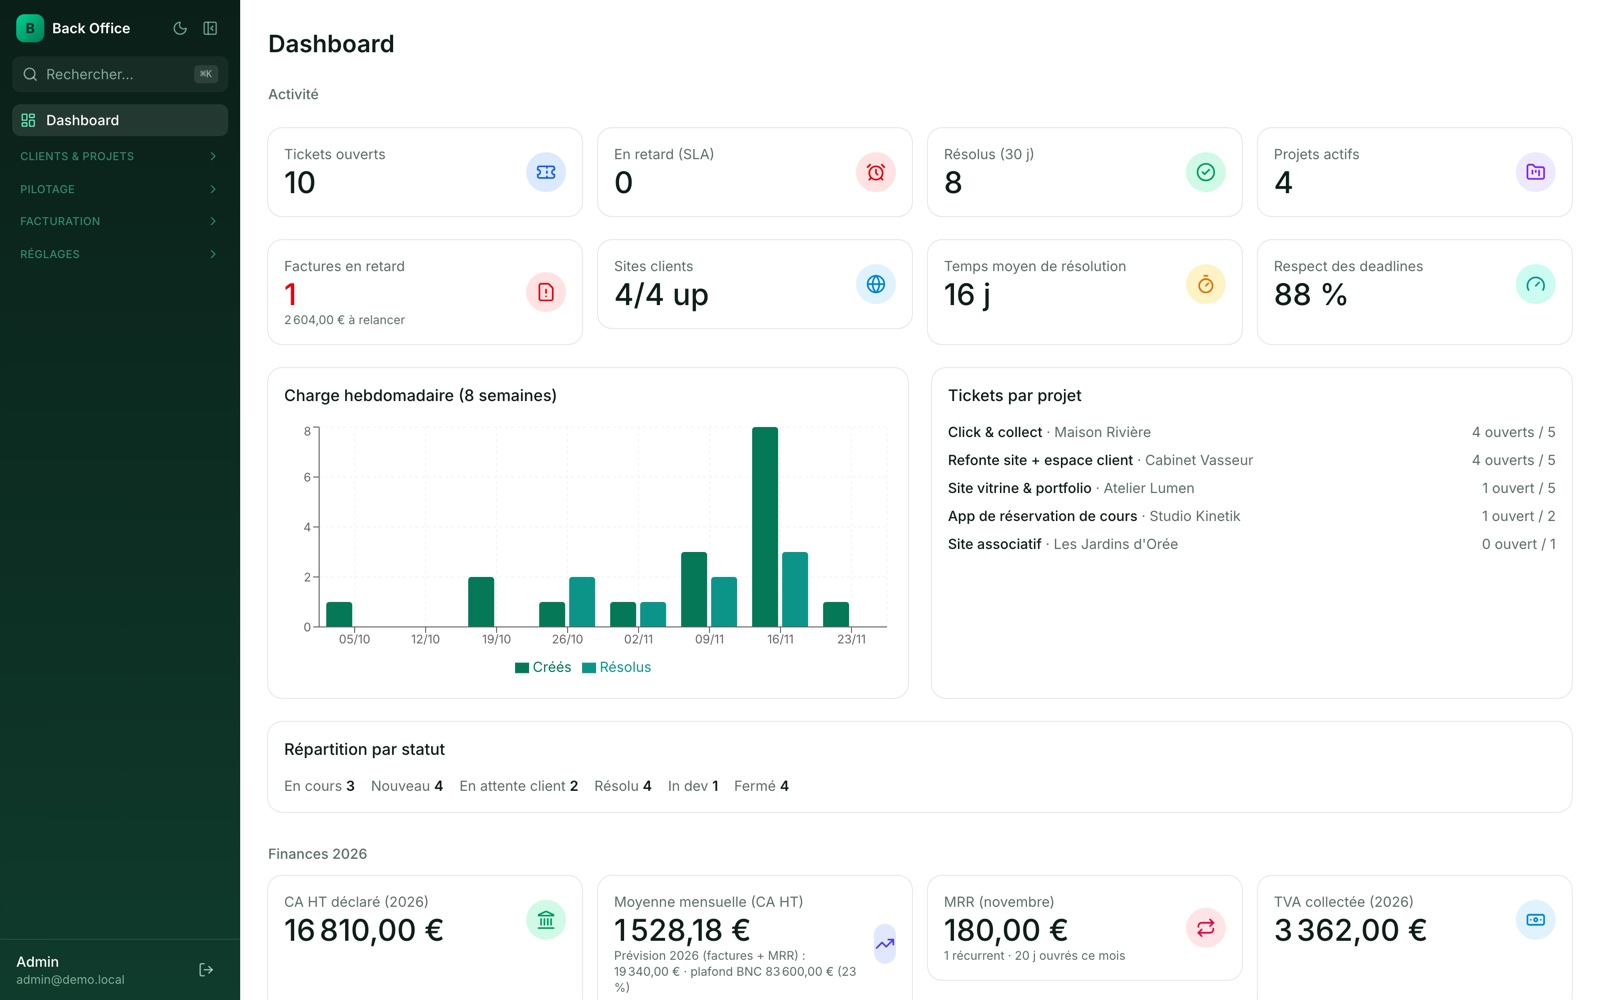
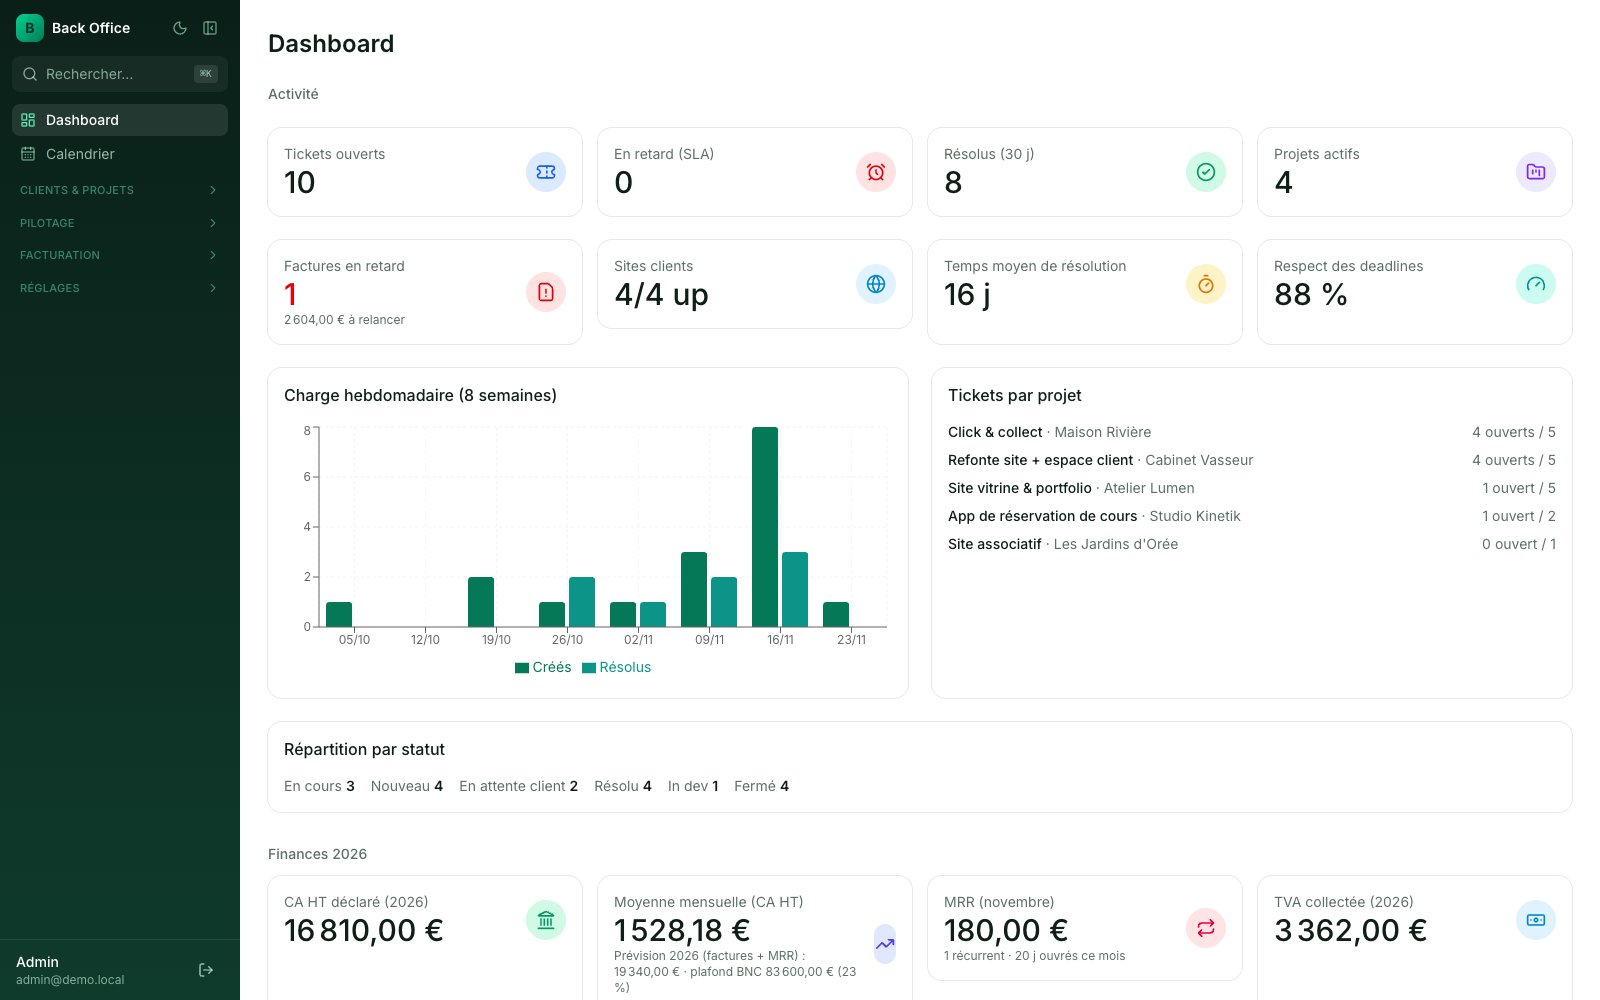
Démo et captures d'écran : calendrier
- seed-demo : tâches de calendrier fictives (URSSAF mensuelle, TVA
  trimestrielle, maintenance, sauvegardes, renouvellement de domaine,
  une tâche en retard)
- Captures admin refaites (entrée Calendrier dans le menu) + capture du
  calendrier dans le README

diff --git a/apps/backoffice/prisma/seed-demo.ts b/apps/backoffice/prisma/seed-demo.ts
@@ -15,6 +15,8 @@ import type {
 import { auth } from "../src/lib/auth";
 import { db } from "../src/lib/db";
 import { computeTotals, docDayKey, formatDocNumber, type LineItem } from "../src/lib/documents";
+import { fiscalTask } from "../src/lib/fiscal-deadlines";
+import { addDays, occurrencesBetween, parisNow, weekdayIndex } from "../src/lib/recurrence";
 import { computeDueDate } from "../src/lib/sla";
 
 const CLIENT_PASSWORD = "demo-client-2026";
@@ -462,6 +464,59 @@ async function main() {
   const ua = "Mozilla/5.0 (Macintosh; Intel Mac OS X 10_15_7) AppleWebKit/605.1.15 (KHTML, like Gecko) Version/18.0 Safari/605.1.15";
   for (const [userId, d] of [[sophie.id, 1], [thomas.id, 0], [claire.id, 2], [nadia.id, 1], [maintainer.id, 0]] as const) {
     await db.loginEvent.create({ data: { userId, ipAddress: "203.0.113.10", userAgent: ua, createdAt: daysAgo(d, 8) } });
+  }
+
+  // ---------- Calendrier ----------
+  const today = parisNow(now).day;
+  // Vendredi (index 4) le plus récent avant aujourd'hui.
+  const lastFriday = addDays(today, -((weekdayIndex(today) + 3) % 7 || 7));
+  const calendarTasks = await Promise.all([
+    db.calendarTask.create({
+      data: { ...fiscalTask("URSSAF", "MONTHLY", today), remindDaysBefore: 7, preset: "URSSAF" },
+    }),
+    db.calendarTask.create({
+      data: { ...fiscalTask("TVA", "QUARTERLY", today), remindDaysBefore: 7, preset: "TVA" },
+    }),
+    db.calendarTask.create({
+      data: {
+        title: "Maintenance mensuelle — Atelier Lumen",
+        notes: "Mises à jour, sauvegarde, contrôle des formulaires et du certificat SSL.",
+        startDate: addDays(today, -26),
+        time: "10:00",
+        recurrence: "MONTHLY",
+        remindDaysBefore: 1,
+      },
+    }),
+    db.calendarTask.create({
+      data: {
+        title: "Sauvegarde des sites clients",
+        startDate: lastFriday,
+        time: "17:00",
+        recurrence: "WEEKLY",
+        remindDaysBefore: 0,
+      },
+    }),
+    db.calendarTask.create({
+      data: {
+        title: "Renouvellement du nom de domaine — Rivière",
+        notes: "Vérifier le renouvellement automatique chez le registrar.",
+        startDate: addDays(today, 12),
+        recurrence: "YEARLY",
+        remindDaysBefore: 7,
+      },
+    }),
+    db.calendarTask.create({
+      data: { title: "Point d'avancement — Kinetik", startDate: addDays(today, 2), time: "14:30", remindDaysBefore: 0 },
+    }),
+    db.calendarTask.create({
+      data: { title: "Envoyer le rapport de maintenance — Orée", startDate: addDays(today, -3), remindDaysBefore: 0 },
+    }),
+  ]);
+  // Occurrences passées cochées, sauf le rapport Orée laissé en retard.
+  for (const task of calendarTasks.filter((t) => !t.title.includes("Orée"))) {
+    for (const date of occurrencesBetween(task, addDays(today, -40), addDays(today, -1))) {
+      await db.calendarOccurrence.create({ data: { taskId: task.id, date, doneAt: daysAgo(1) } });
+    }
   }
 
   console.log("Démo chargée. Comptes clients (mot de passe : " + CLIENT_PASSWORD + ") :");

diff --git a/README.md b/README.md
@@ -19,6 +19,10 @@ Un seul outil pour gérer ses clients au lieu de jongler entre un Trello, un Goo
 | **Portail client : suivi du projet** | **Portail client : accès chiffrés** |
 | ![Portail client](docs/screenshots/portal-project.jpg) | ![Vault](docs/screenshots/portal-vault.jpg) |
 
+**Calendrier : tâches récurrentes et échéances URSSAF / TVA**
+
+![Calendrier](docs/screenshots/calendar.jpg)
+
 ## Fonctionnalités
 
 **Côté client (portail)**
